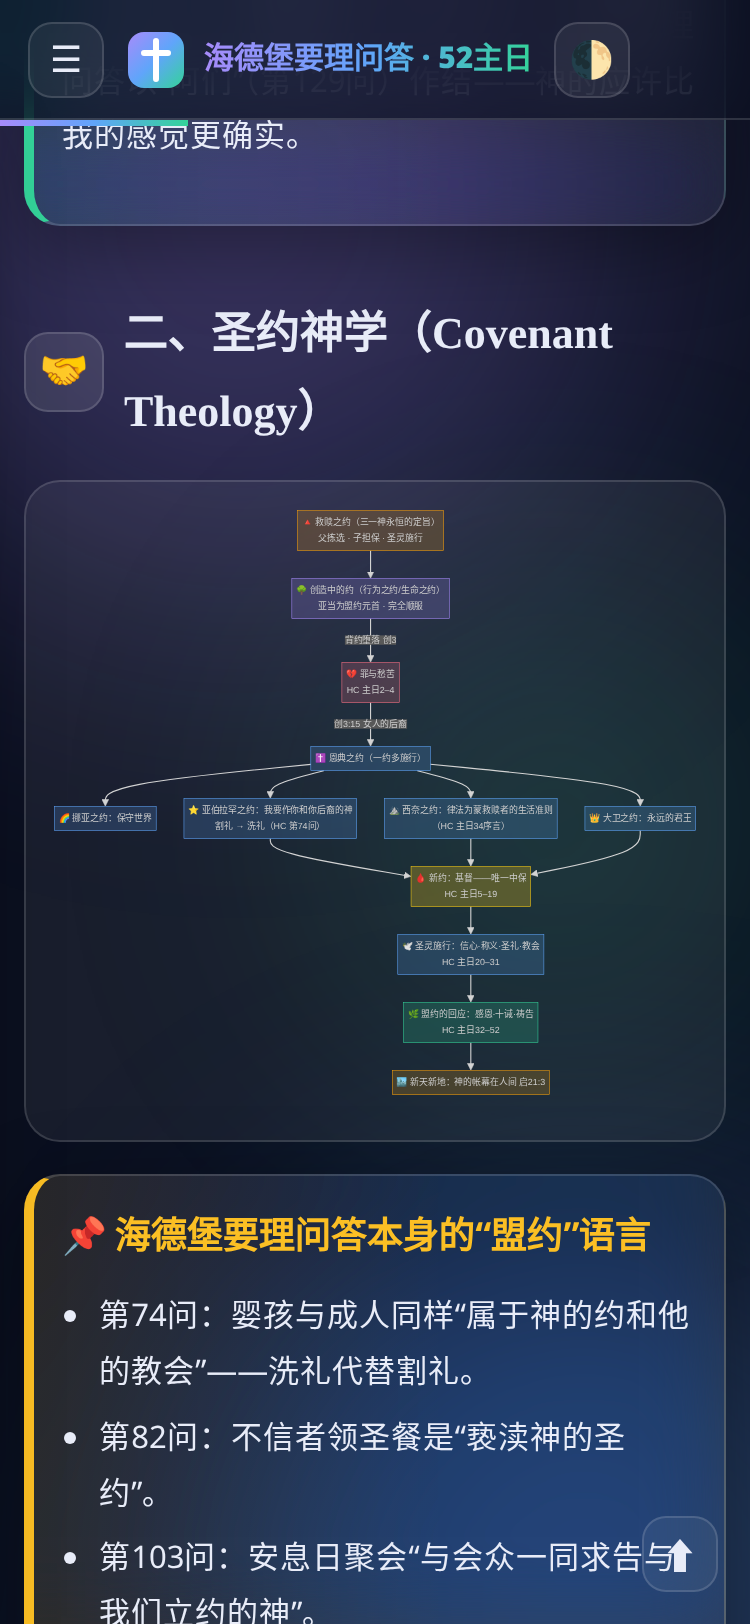
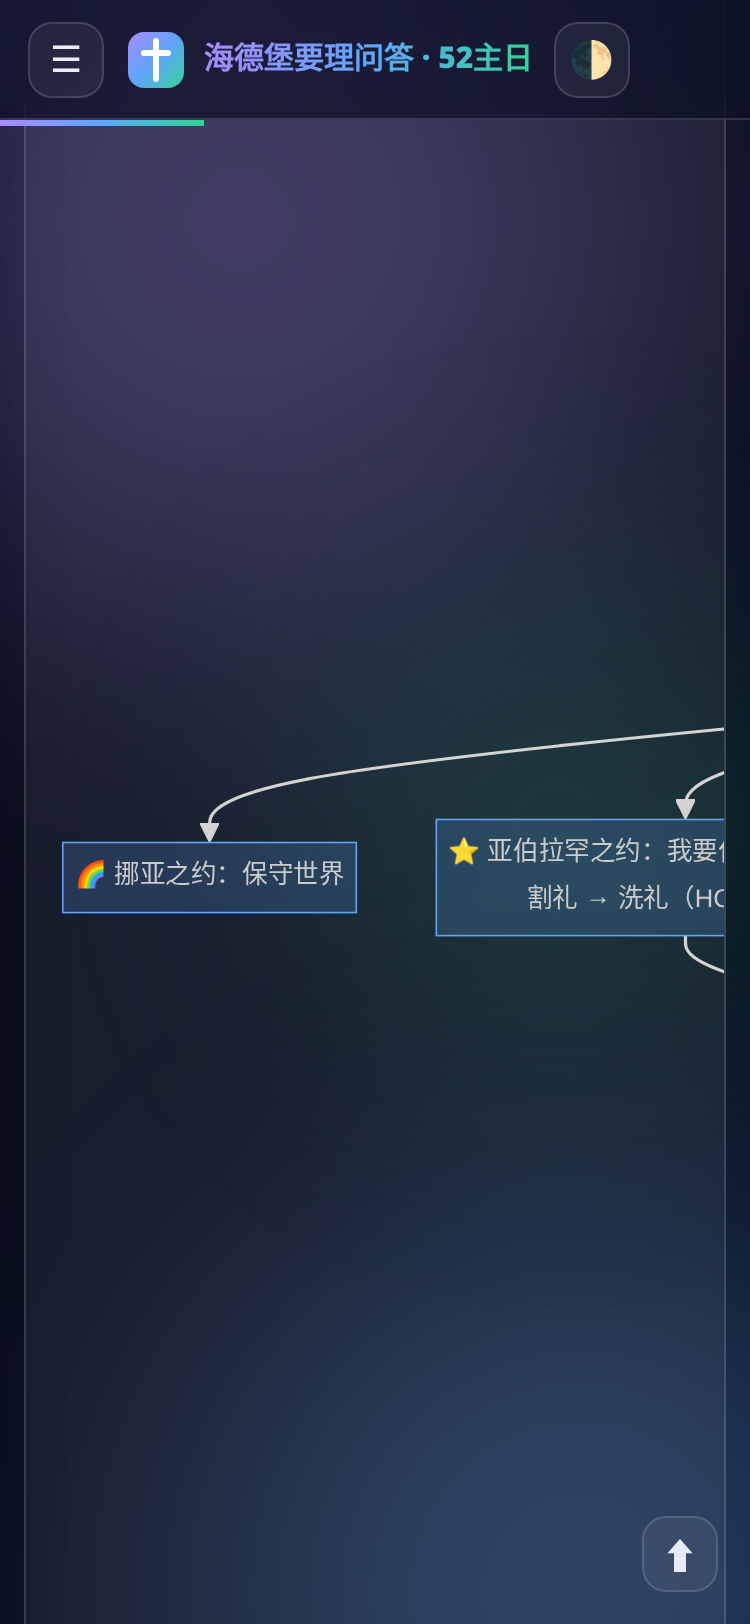
Mobile: scrollable legible mermaid diagrams

diff --git a/site/assets/js/app.js b/site/assets/js/app.js
@@ -55,6 +55,6 @@ document.addEventListener('DOMContentLoaded',()=>{
  addEventListener('keydown',e=>{if(e.target.matches('input,textarea'))return;if(e.key==='t')tocBtn?.click();if(e.key==='r')$('#reciteBtn')?.click();if(e.key==='ArrowLeft'&&$('#prevLd'))location.href=$('#prevLd').href;if(e.key==='ArrowRight'&&$('#nextLd'))location.href=$('#nextLd').href});
  $('#topBtn')?.addEventListener('click',()=>scrollTo({top:0,behavior:'smooth'}));
  // mermaid
- if($('.mermaid')){const s=document.createElement('script');s.src='https://cdn.jsdelivr.net/npm/mermaid@10.9.1/dist/mermaid.min.js';s.onload=()=>{mermaid.initialize({startOnLoad:false,theme:document.documentElement.dataset.theme==='dark'?'dark':'default',securityLevel:'loose',flowchart:{useMaxWidth:true,htmlLabels:true},themeVariables:{fontFamily:'PingFang SC, Microsoft YaHei, Noto Sans SC, sans-serif'}});mermaid.run({querySelector:'.mermaid'})};document.head.appendChild(s)}
+ if($('.mermaid')){const s=document.createElement('script');s.src='https://cdn.jsdelivr.net/npm/mermaid@10.9.1/dist/mermaid.min.js';s.onload=()=>{mermaid.initialize({startOnLoad:false,theme:document.documentElement.dataset.theme==='dark'?'dark':'default',securityLevel:'loose',flowchart:{useMaxWidth:true,htmlLabels:true},themeVariables:{fontFamily:'PingFang SC, Microsoft YaHei, Noto Sans SC, sans-serif'}});mermaid.run({querySelector:'.mermaid'}).then(()=>{document.querySelectorAll('.mermaid svg').forEach(svg=>{const vb=svg.viewBox&&svg.viewBox.baseVal;if(!vb||!vb.width)return;const box=svg.parentElement;const k=.8;const need=vb.width*k;if(box.clientWidth<need){svg.style.maxWidth='none';svg.style.width=need+'px';svg.style.height=(vb.height*k)+'px';svg.removeAttribute('height')}})})};document.head.appendChild(s)}
 });
 })();

diff --git a/site/assets/css/style.css b/site/assets/css/style.css
@@ -188,5 +188,5 @@ ol.core li::before{content:counter(c);position:absolute;left:10px;top:8px;width:
 @media print{.topbar,.side,.fab,.bgfx,.progress{display:none!important}main{padding:0}.card,.qa{box-shadow:none;backdrop-filter:none}}
 td:first-child{white-space:nowrap}
 .mermaid{min-height:80px}
-.mermaid svg{min-width:min(100%,680px)}
-@media(max-width:700px){.mermaid svg{min-width:640px!important;max-width:none!important}.mermaid::before{content:"↔ 可左右滑动查看完整流程图";display:block;font-size:12px;color:var(--muted);text-align:left;margin-bottom:6px}}
+@media(max-width:700px){.mermaid::before{content:"↔ 可左右滑动查看完整流程图";display:block;font-size:12px;color:var(--muted);text-align:left;margin-bottom:6px}}
+@media(max-width:700px){.mermaid{text-align:left}}
